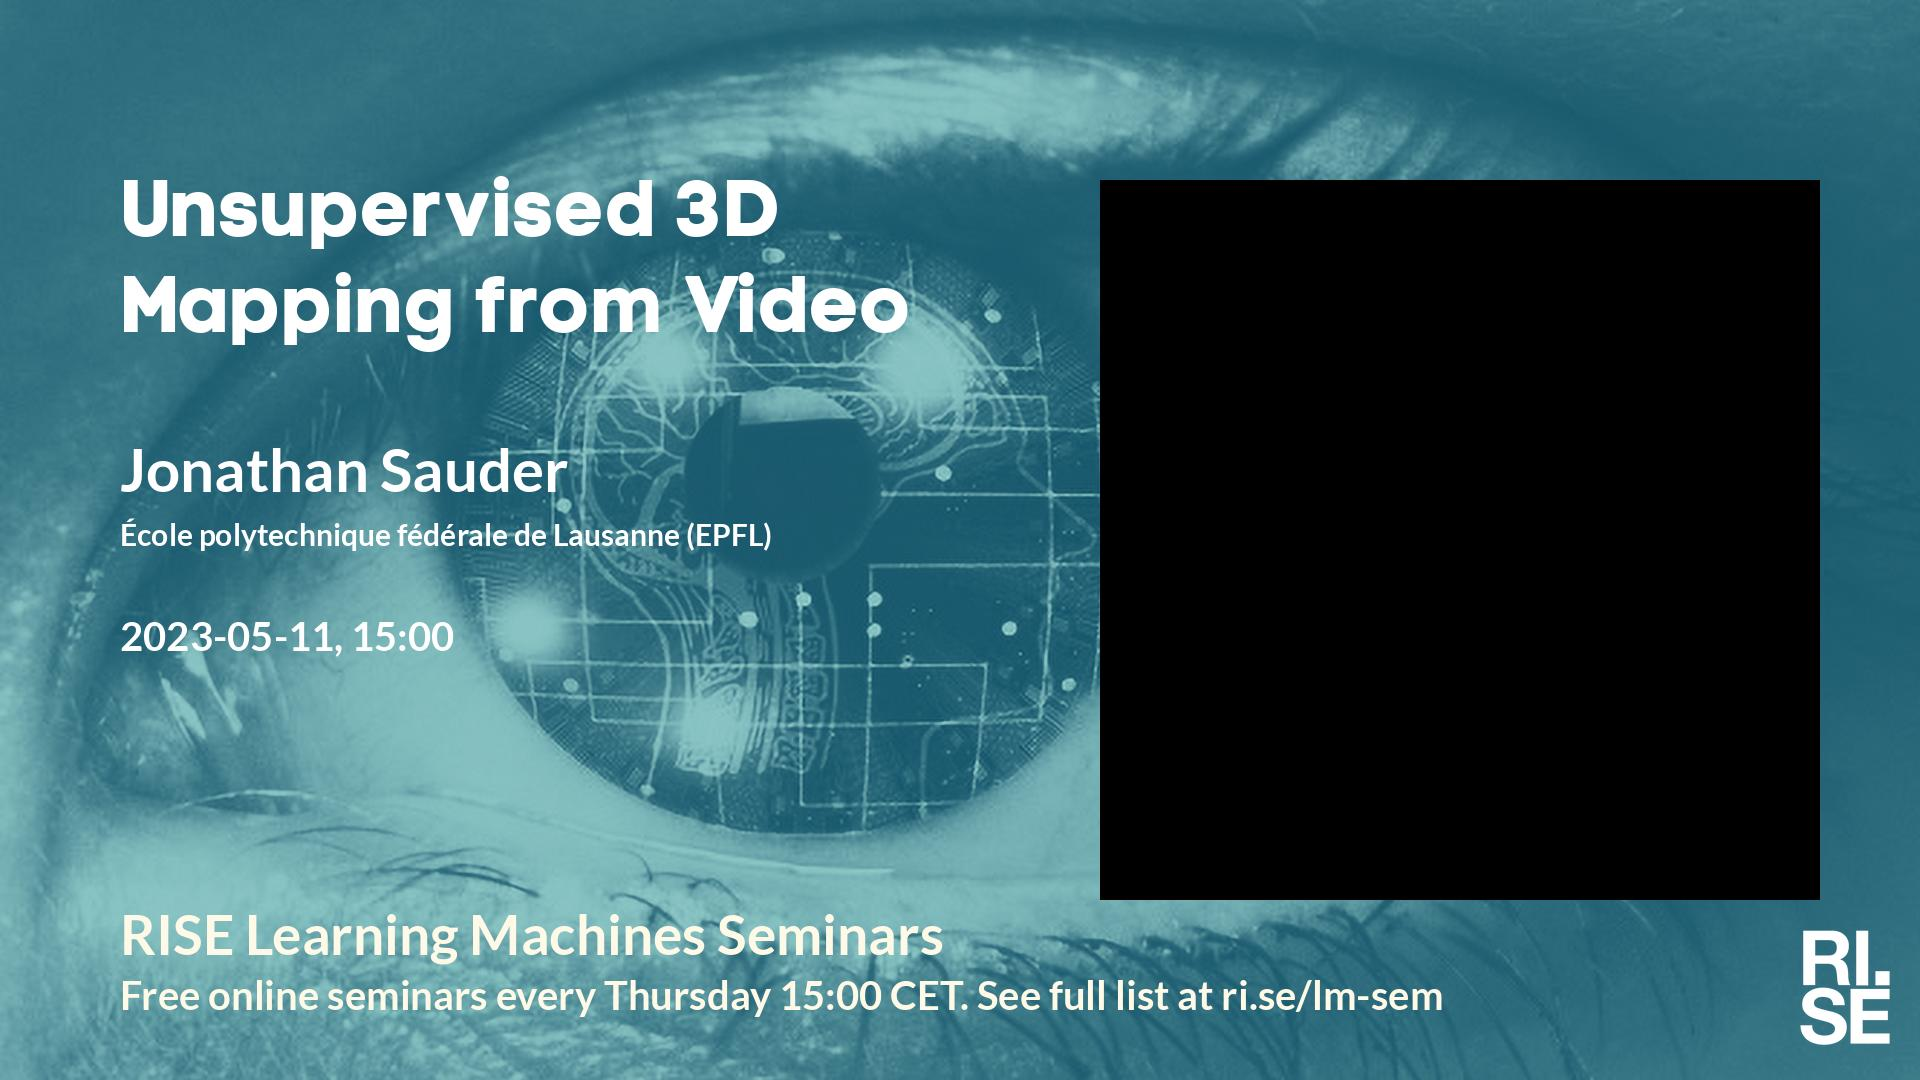
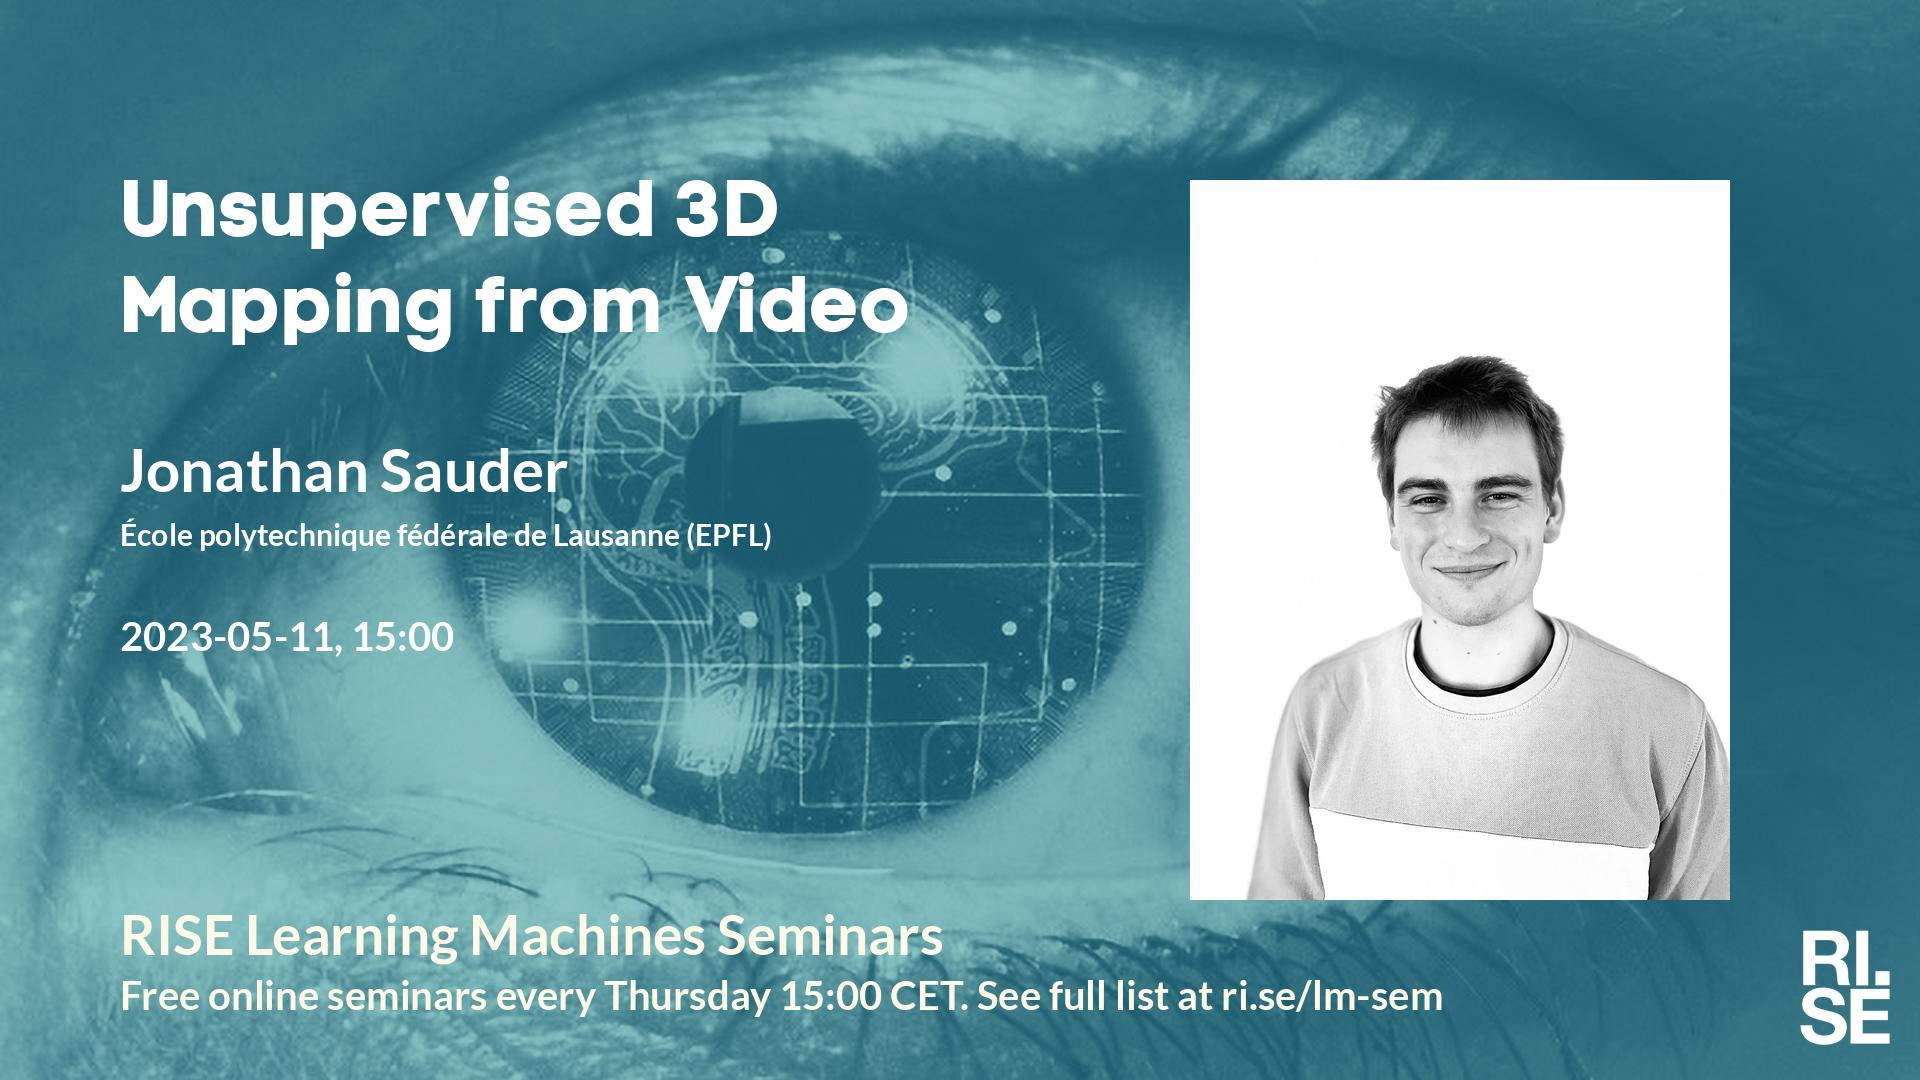
Updated plan on web site.

Changed region(s): [[0.5625, 0.1528, 0.9688, 0.8556]]

diff --git a/lm/index.md b/lm/index.md
@@ -13,7 +13,7 @@ table {border-collapse: collapse;}
 |  2023-04-20  |  [Rico Sennrich, University of Zurich](2023-04-20.md)  |  [photo](photo-rico-sennrich.jpg)  |  [social media ](social-media-rico-sennrich.jpg)  |  [meeting backdrop ](meeting-backdrop-rico-sennrich.jpg)  |  [youtube thumbnail ](youtube-thumbnail-rico-sennrich.jpg)  |  STABP  |
 |  2023-04-27  |  [Pontus Stenetorp, University College London (UCL)](2023-04-27.md)  |  [photo](photo-pontus-stenetorp.jpg)  |  [social media ](social-media-pontus-stenetorp.jpg)  |  [meeting backdrop ](meeting-backdrop-pontus-stenetorp.jpg)  |  [youtube thumbnail ](youtube-thumbnail-pontus-stenetorp.jpg)  |  STABP  |
 |  2023-05-04  |  [Ida Arvidsson, Lund University](2023-05-04.md)  |    |  [social media ](social-media-ida-arvidsson.jpg)  |  [meeting backdrop ](meeting-backdrop-ida-arvidsson.jpg)  |  [youtube thumbnail ](youtube-thumbnail-ida-arvidsson.jpg)  |  STAB~~P~~  |
-|  2023-05-11  |  [Jonathan Sauder, École polytechnique fédérale de Lausanne (EPFL)](2023-05-11.md)  |    |  [social media ](social-media-jonathan-sauder.jpg)  |  [meeting backdrop ](meeting-backdrop-jonathan-sauder.jpg)  |  [youtube thumbnail ](youtube-thumbnail-jonathan-sauder.jpg)  |  STAB~~P~~  |
+|  2023-05-11  |  [Jonathan Sauder, École polytechnique fédérale de Lausanne (EPFL)](2023-05-11.md)  |  [photo](photo-jonathan-sauder.jpg)  |  [social media ](social-media-jonathan-sauder.jpg)  |  [meeting backdrop ](meeting-backdrop-jonathan-sauder.jpg)  |  [youtube thumbnail ](youtube-thumbnail-jonathan-sauder.jpg)  |  STABP  |
 | <span style="color:red"> 2023-05-18 </span> | <span style="color:red"> Kristi-himmelsfärd </span> | <span style="color:red">  </span> | <span style="color:red">  </span> | <span style="color:red">  </span> | <span style="color:red">  </span> | <span style="color:red"> CANCELLED </span> |
 |  2023-05-25  |  [Puzhao Zhang, KTH](2023-05-25.md)  |  [photo](photo-puzhao-zhang.jpg)  |  [social media ](social-media-puzhao-zhang.jpg)  |  [meeting backdrop ](meeting-backdrop-puzhao-zhang.jpg)  |  [youtube thumbnail ](youtube-thumbnail-puzhao-zhang.jpg)  |  STABP  |
 | <span style="color:purple"> 2023-08-31 </span> | <span style="color:purple"> *Up for grabs!!!* </span> | <span style="color:purple">  </span> | <span style="color:purple">  </span> | <span style="color:purple">  </span> | <span style="color:purple">  </span> | <span style="color:purple"> ~~S~~TAB~~P~~ </span> |
